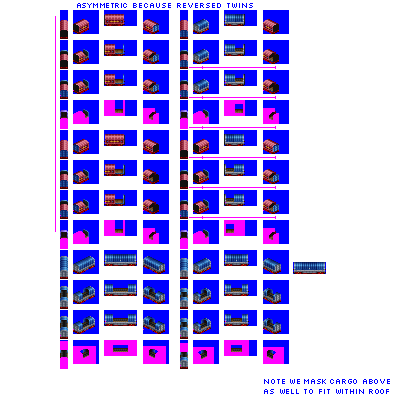
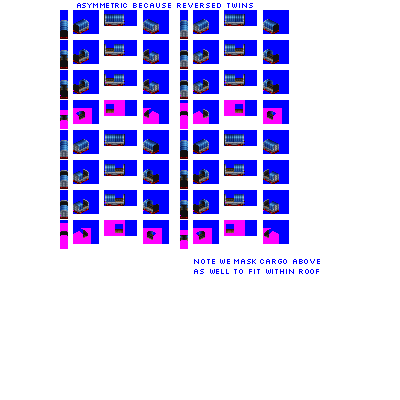
Change: add pony gen 5D sliding roof hi-cube wagon

diff --git a/src/vehicles/pony/sliding_roof_hi_cube_cars_pony.py b/src/vehicles/pony/sliding_roof_hi_cube_cars_pony.py
@@ -25,14 +25,14 @@ def main(roster_id, **kwargs):
     )
 
     consist.add_unit(type=FreightCar, chassis="4_axle_filled_32px")
-    """
+
     consist = SlidingRoofCarConsistHiCube(
         roster_id=roster_id,
         roster_id_providing_module=kwargs["roster_id_providing_module"],
         base_numeric_id=840,
         gen=5,
         subtype="D",
-        sprites_complete=False,
+        sprites_complete=True,
     )
 
     consist.add_unit(
@@ -46,6 +46,5 @@ def main(roster_id, **kwargs):
         type=FreightCar,
         chassis="2_axle_1cc_filled_20px",
         symmetry_type="asymmetric",
-        force_spriterow_group_in_output_spritesheet=1,  # special case
+        force_spriterow_group_in_output_spritesheet=1, # special case
     )
-    """
